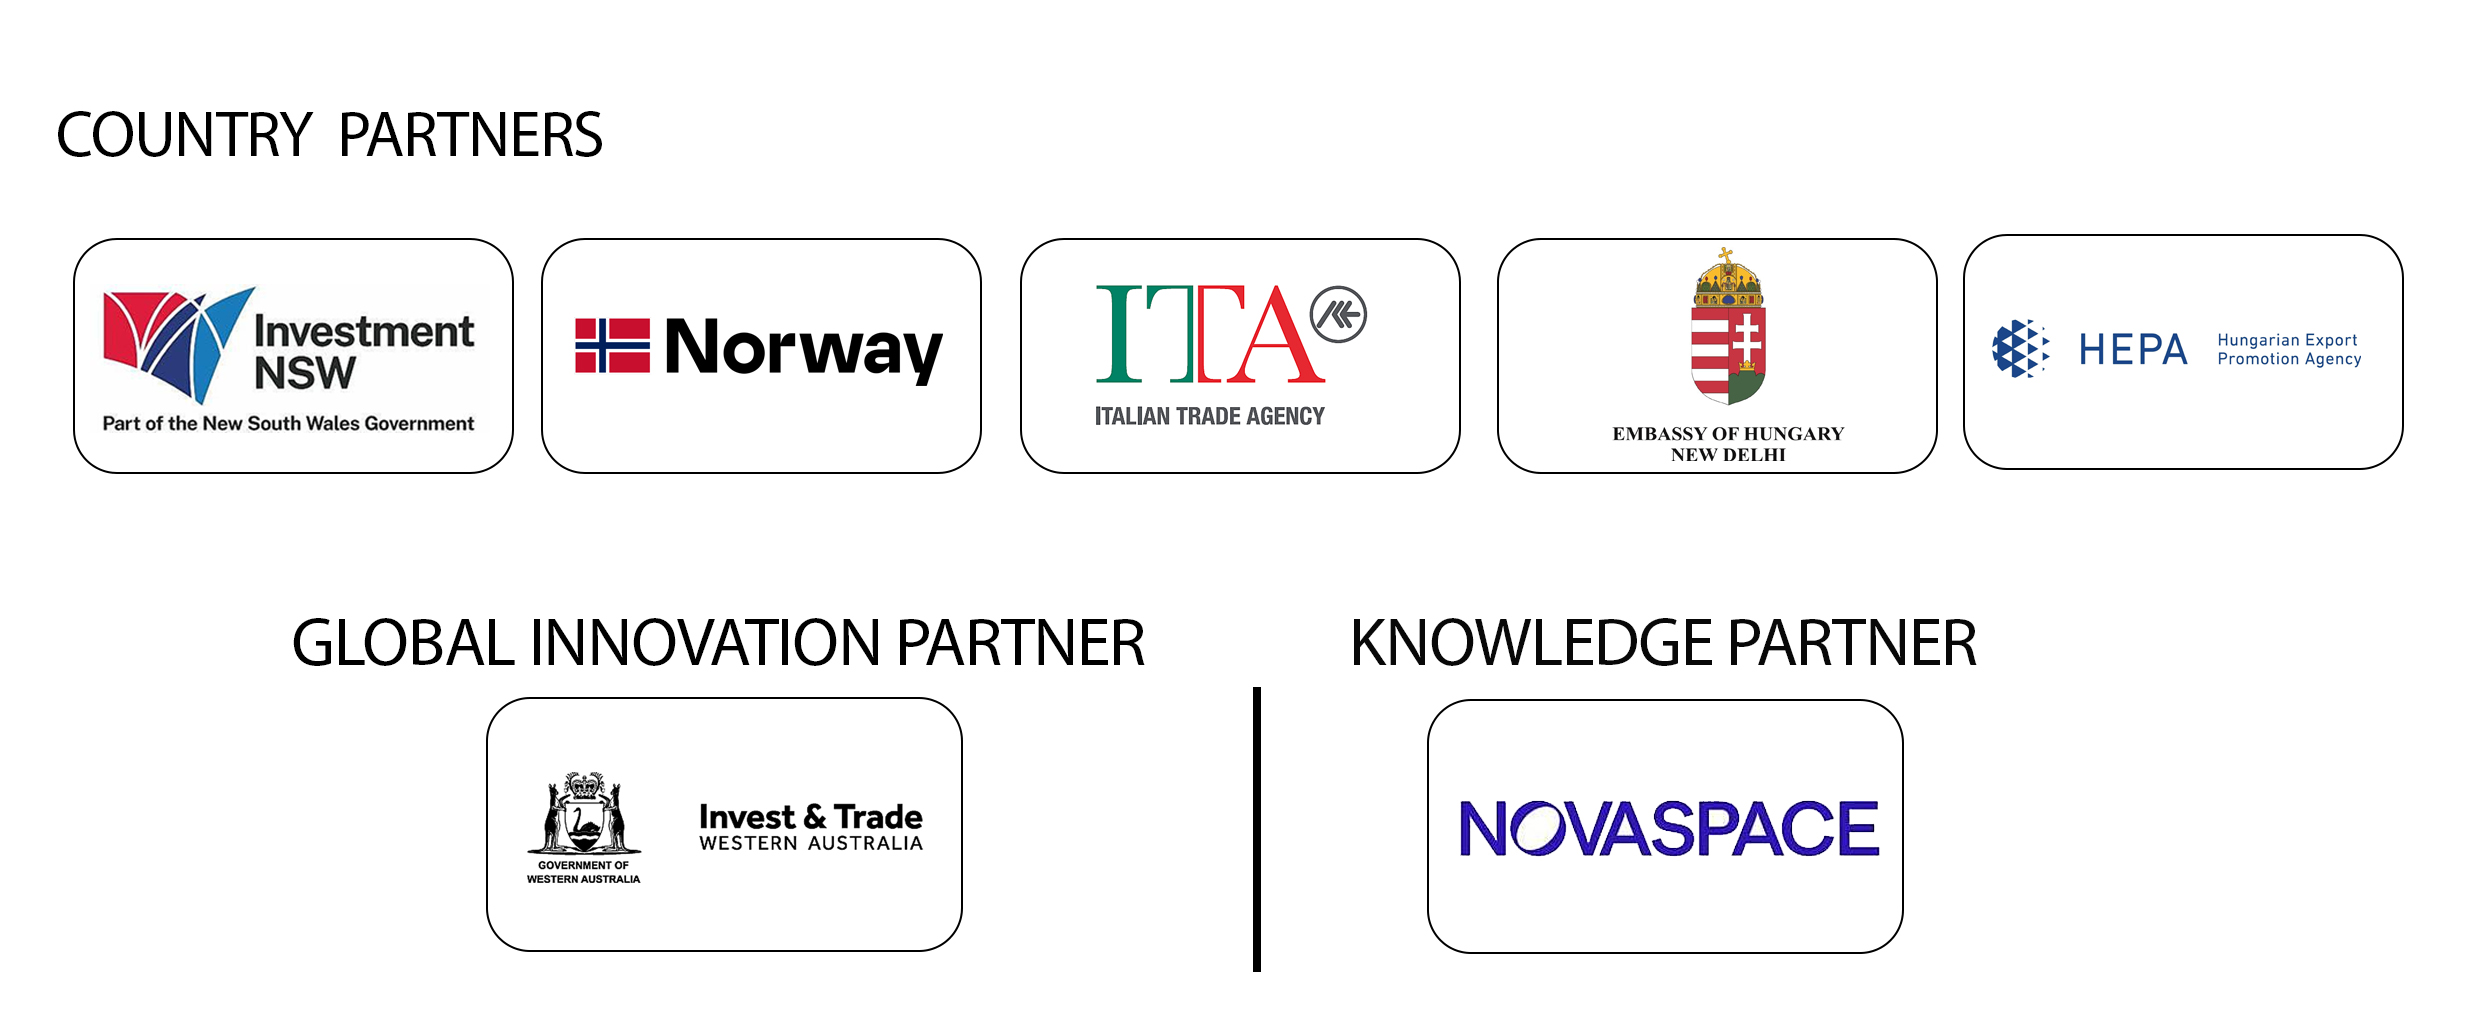
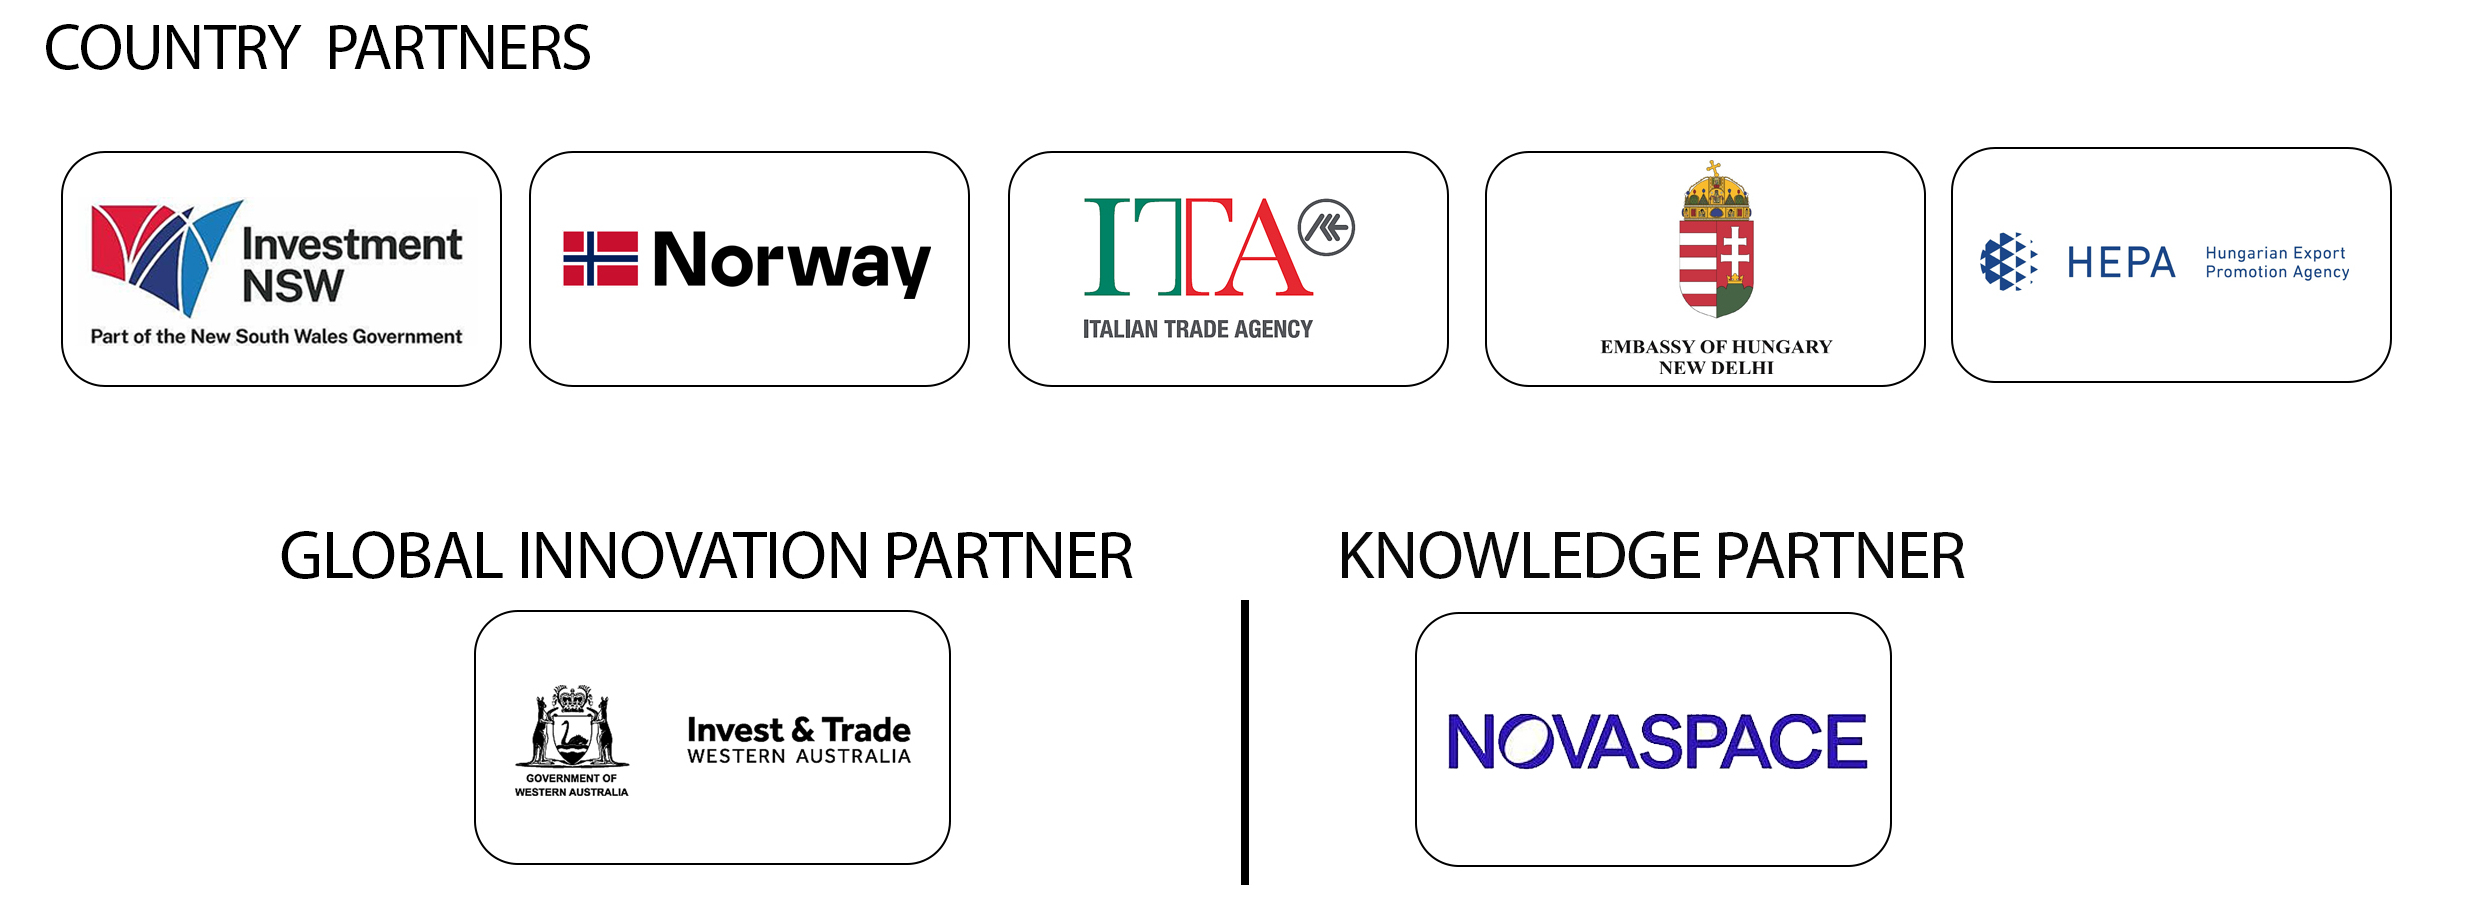
new

diff --git a/may2025-30/index.html b/may2025-30/index.html
@@ -97,7 +97,7 @@
 						<tbody>
 							<tr>
 								<td>
-									<table class="row-content stack" align="center" border="0" cellpadding="0" cellspacing="0" role="presentation" style="mso-table-lspace: 0pt; mso-table-rspace: 0pt; background-size: auto; border-radius: 0; color: #000000; width: 600px; margin: 0 auto;" width="600">
+									<table class="row-content stack" align="center" border="0" cellpadding="0" cellspacing="0" role="presentation" style="mso-table-lspace: 0pt; mso-table-rspace: 0pt; background-size: auto; border-radius: 0; color: #000000; width: 600px; margin: 5 auto;" width="600">
 										<tbody>
 											<tr>
 												<td class="column column-1" width="100%" style="mso-table-lspace: 0pt; mso-table-rspace: 0pt; font-weight: 400; text-align: left; background-color: #0068a5; border-top: 7px solid #ffffff; padding-bottom: 5px; padding-left: 5px; padding-right: 5px; padding-top: 5px; vertical-align: middle;">
@@ -149,7 +149,7 @@
 									<table class="row-content stack" align="center" border="0" cellpadding="0" cellspacing="0" role="presentation" style="mso-table-lspace: 0pt; mso-table-rspace: 0pt; border-radius: 0; color: #000000; width: 600px; margin: 0 auto;" width="600">
 										<tbody>
 											<tr>
-												<td class="column column-1" width="100%" style="mso-table-lspace: 0pt; mso-table-rspace: 0pt; font-weight: 400; text-align: left; padding-bottom: 5px; padding-left: 0px; padding-right: 0px; padding-top: 5px; vertical-align: top;">
+												<td class="column column-1" width="100%" style="mso-table-lspace: 0pt; mso-table-rspace: 0pt; font-weight: 400; text-align: left; padding-bottom: 0px; padding-left: 0px; padding-right: 0px; padding-top: 0px; vertical-align: top;">
 													<table class="image_block block-1" width="100%" border="0" cellpadding="0" cellspacing="0" role="presentation" style="mso-table-lspace: 0pt; mso-table-rspace: 0pt;">
 														<tbody><tr>
 															<td class="pad" style="width:100%;padding-right:0px;padding-left:0px;">
@@ -174,7 +174,7 @@
 									<table class="row-content stack" align="center" border="0" cellpadding="0" cellspacing="0" role="presentation" style="mso-table-lspace: 0pt; mso-table-rspace: 0pt; border-radius: 0; color: #000000; width: 600px; margin: 0 auto;" width="600">
 										<tbody>
 											<tr>
-												<td class="column column-1" width="100%" style="mso-table-lspace: 0pt; mso-table-rspace: 0pt; font-weight: 400; text-align: left; padding-bottom: 5px; padding-left: 0px; padding-right: 0px; padding-top: 5px; vertical-align: top;">
+												<td class="column column-1" width="100%" style="mso-table-lspace: 0pt; mso-table-rspace: 0pt; font-weight: 400; text-align: left; padding-bottom: 0px; padding-left: 0px; padding-right: 0px; padding-top:0px; vertical-align: top;">
 													<table class="image_block block-1" width="100%" border="0" cellpadding="0" cellspacing="0" role="presentation" style="mso-table-lspace: 0pt; mso-table-rspace: 0pt;">
 														<tbody><tr>
 															<td class="pad" style="width:100%;padding-right:0px;padding-left:0px;">
@@ -199,7 +199,7 @@
 									<table class="row-content stack" align="center" border="0" cellpadding="0" cellspacing="0" role="presentation" style="mso-table-lspace: 0pt; mso-table-rspace: 0pt; border-radius: 0; color: #000000; width: 600px; margin: 0 auto;" width="600">
 										<tbody>
 											<tr>
-												<td class="column column-1" width="100%" style="mso-table-lspace: 0pt; mso-table-rspace: 0pt; font-weight: 400; text-align: left; padding-bottom: 5px; padding-left: 0px; padding-right: 0px; padding-top: 5px; vertical-align: top;">
+												<td class="column column-1" width="100%" style="mso-table-lspace: 0pt; mso-table-rspace: 0pt; font-weight: 400; text-align: left; padding-bottom: 0px; padding-left: 0px; padding-right: 0px; padding-top: 0px; vertical-align: top;">
 													<table class="image_block block-1" width="100%" border="0" cellpadding="0" cellspacing="0" role="presentation" style="mso-table-lspace: 0pt; mso-table-rspace: 0pt;">
 														<tbody><tr>
 															<td class="pad" style="width:100%;padding-right:0px;padding-left:0px;">
@@ -224,7 +224,7 @@
 									<table class="row-content stack" align="center" border="0" cellpadding="0" cellspacing="0" role="presentation" style="mso-table-lspace: 0pt; mso-table-rspace: 0pt; border-radius: 0; color: #000000; width: 600px; margin: 0 auto;" width="600">
 										<tbody>
 											<tr>
-												<td class="column column-1" width="100%" style="mso-table-lspace: 0pt; mso-table-rspace: 0pt; font-weight: 400; text-align: left; padding-bottom: 5px; padding-left: 0px; padding-right: 0px; padding-top: 5px; vertical-align: top;">
+												<td class="column column-1" width="100%" style="mso-table-lspace: 0pt; mso-table-rspace: 0pt; font-weight: 400; text-align: left; padding-bottom: 0px; padding-left: 0px; padding-right: 0px; padding-top: 0px; vertical-align: top;">
 													<table class="image_block block-1" width="100%" border="0" cellpadding="0" cellspacing="0" role="presentation" style="mso-table-lspace: 0pt; mso-table-rspace: 0pt;">
 														<tbody><tr>
 															<td class="pad" style="width:100%;padding-right:0px;padding-left:0px;">
